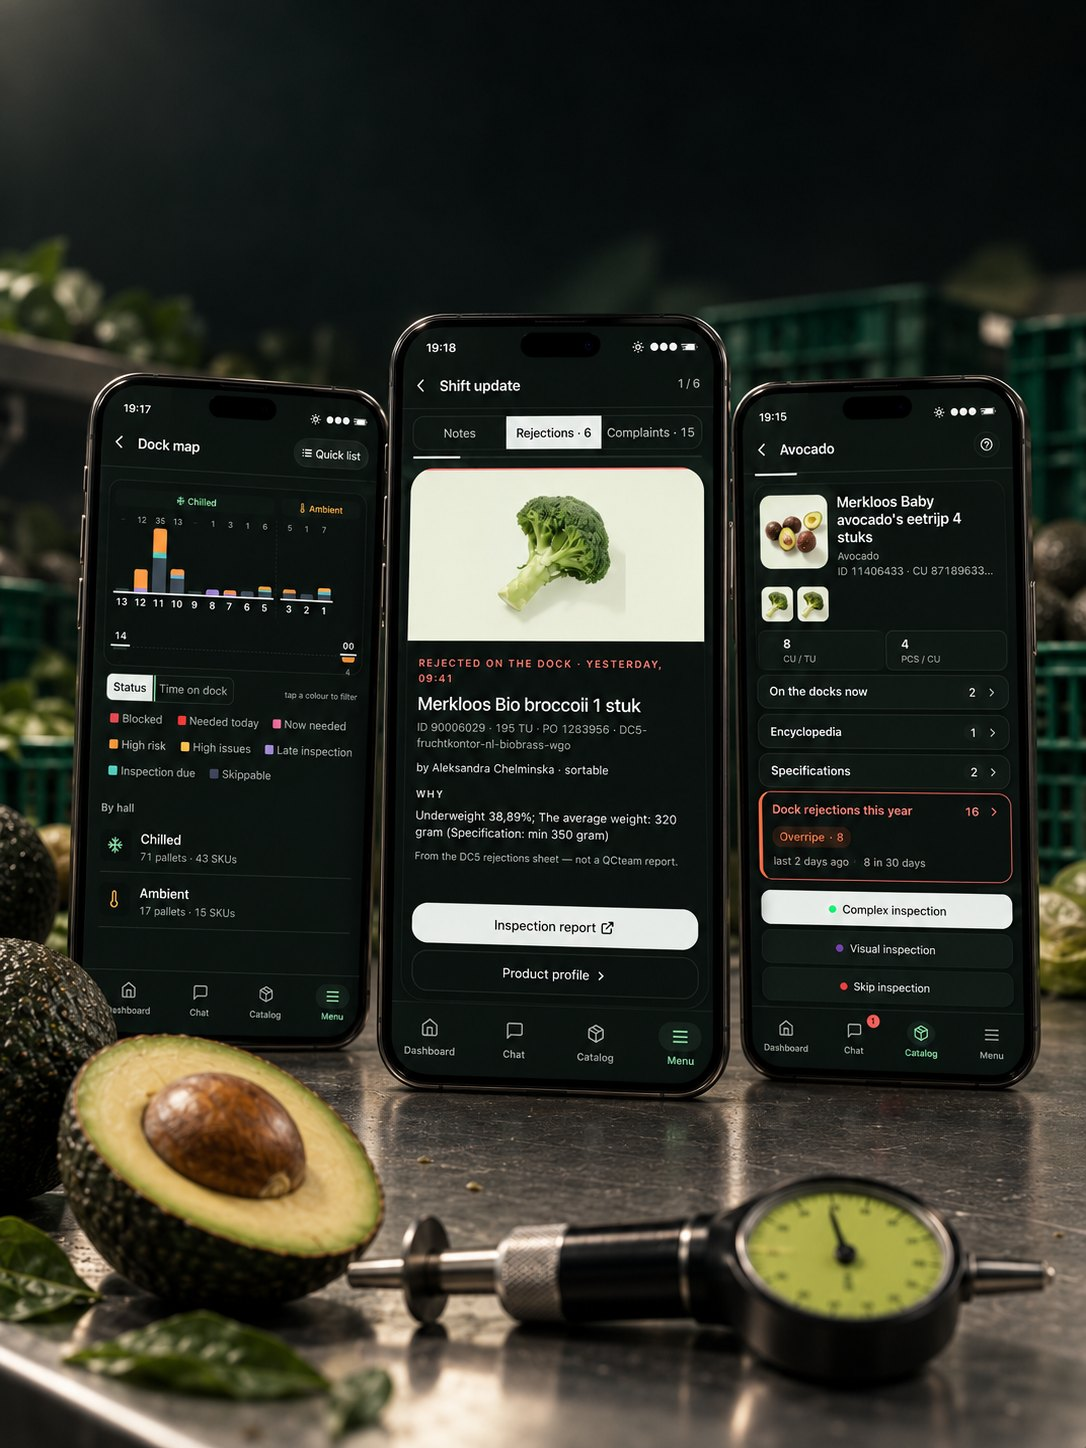
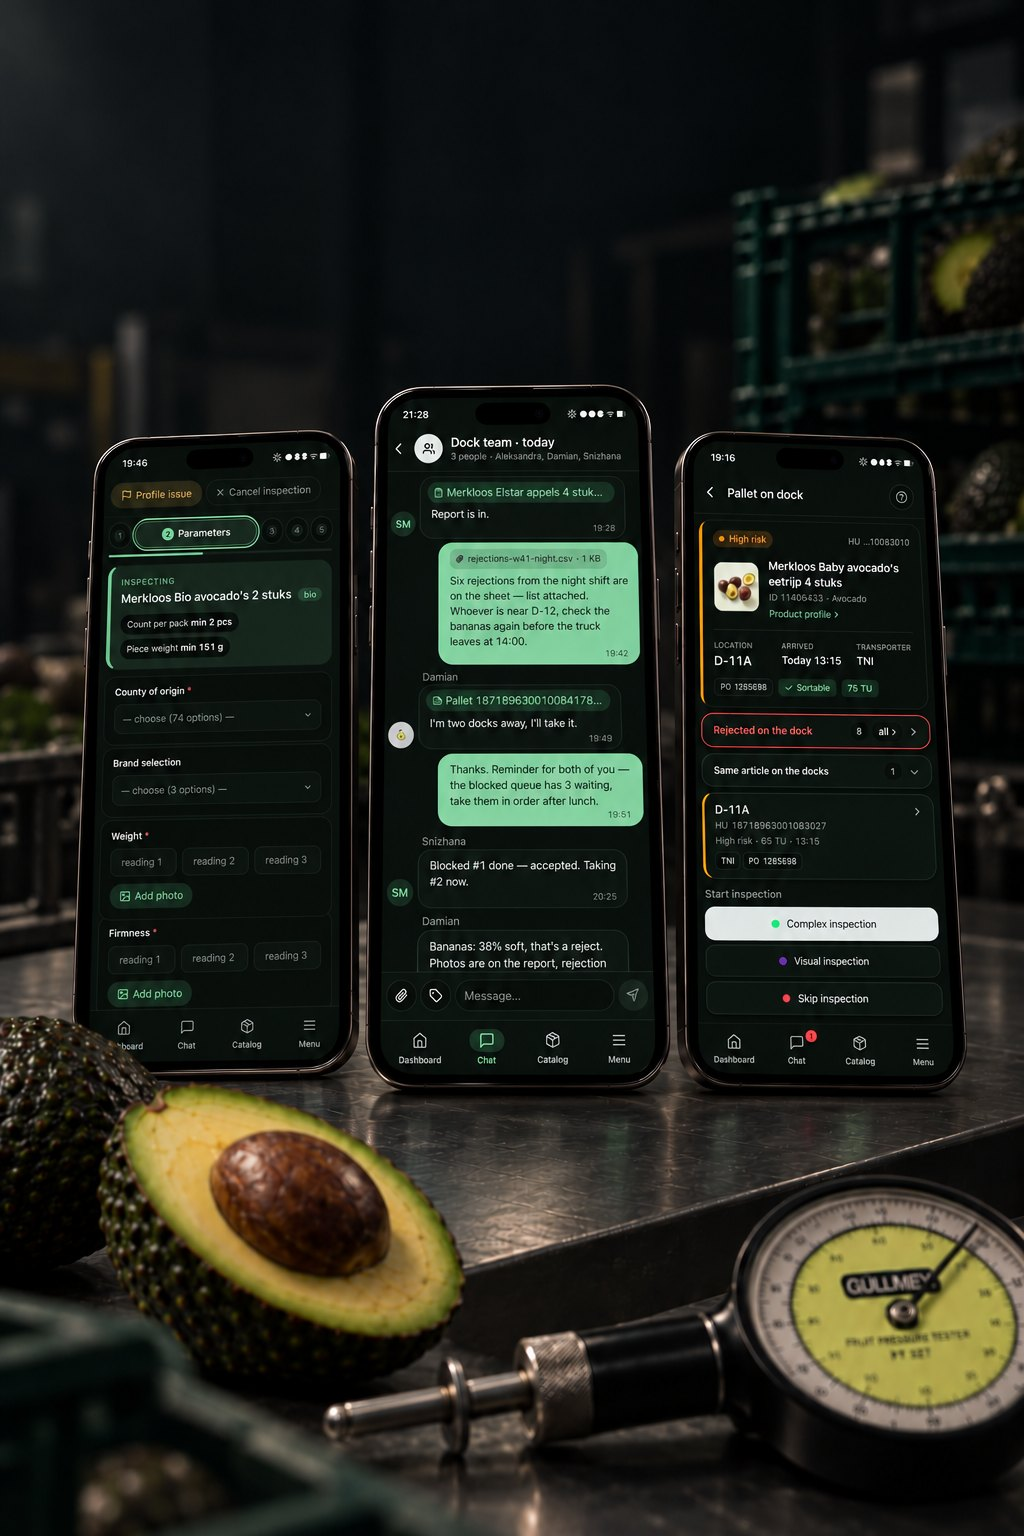
Sign-in carousel: two new app-on-phones slides (inspection · chat · pallet; dock map · shift update · catalog)
Claude-Session: https://claude.ai/code/session_01D8tjnUiivyrGcLWB3k9XYc

diff --git a/src/Portal.jsx b/src/Portal.jsx
@@ -1282,7 +1282,7 @@ const writeSession = id => { try { if (id) localStorage.setItem(SESSION_KEY, id)
 // Any number of devices and people can be signed in at once (portal + phones). Concurrent edits are merged by the
 // shared syncer (src/sync.js): every edit is a function applied on top of the server's latest copy, never a blind overwrite.
 // Bump when public/login-hero.jpg changes: the service worker and the browser cache the old picture under the same URL.
-const LOGIN_HERO_V = "4";
+const LOGIN_HERO_V = "5";
 function LoginScreen({ s, onLogin, allowRoles }) {
   // Always the prototype's dark theme, whatever the app is set to: the sign-in page is the front door, one look.
   const D = DARK;
@@ -1290,7 +1290,7 @@ function LoginScreen({ s, onLogin, allowRoles }) {
   const [email, setEmail] = useState(""); const [pw, setPw] = useState(""); const [pw2, setPw2] = useState(""); const [err, setErr] = useState(""); const [show, setShow] = useState(false);
   const [hero, setHero] = useState(true);   // public/login-hero.jpg — optional photo behind the brand panel; the gradient alone when missing
   // Brand panel carousel: slide 0 is the inspection photo, slide 1 shows the app on phones. Arrows, dots, keys and swipe.
-  const HERO_SLIDES = [{ src: `/login-hero.jpg?v=${LOGIN_HERO_V}`, cls: "" }, { src: `/login-hero-2.jpg?v=${LOGIN_HERO_V}`, cls: "screens" }];
+  const HERO_SLIDES = [{ src: `/login-hero.jpg?v=${LOGIN_HERO_V}`, cls: "" }, { src: `/login-hero-2.jpg?v=${LOGIN_HERO_V}`, cls: "screens" }, { src: `/login-hero-3.jpg?v=${LOGIN_HERO_V}`, cls: "screens" }];
   const [slide, setSlide] = useState(0); const touchX = useRef(null);
   const goSlide = d => setSlide(i => (i + d + HERO_SLIDES.length) % HERO_SLIDES.length);
   useEffect(() => { const k = e => { if (e.target && /input|textarea|select/i.test(e.target.tagName)) return; if (e.key === "ArrowRight") goSlide(1); if (e.key === "ArrowLeft") goSlide(-1); }; window.addEventListener("keydown", k); return () => window.removeEventListener("keydown", k); }, []);
@@ -1332,7 +1332,7 @@ function LoginScreen({ s, onLogin, allowRoles }) {
         .qc-login-brand{position:relative;overflow:hidden;display:flex;flex-direction:column;justify-content:space-between;padding:56px 56px 48px;color:#EEF5F0;background:linear-gradient(160deg,${green2} 0%,${green} 70%)}
         .qc-login-brand .hero{position:absolute;inset:0;width:100%;height:100%;object-fit:cover;object-position:55% 60%;opacity:0;filter:saturate(.85) contrast(1.03);transition:opacity .5s ease}
         .qc-login-brand .hero.on{opacity:.92}
-        .qc-login-brand .hero.screens{object-position:50% 100%;filter:saturate(.95)}
+        .qc-login-brand .hero.screens{object-position:50% 50%;filter:saturate(.95);transform:scale(1.08);transform-origin:50% 60%}
         .qc-login-brand .hero.screens.on{opacity:1}
         .qc-login-brand .tint.screens{background:linear-gradient(180deg,rgba(11,36,24,.75) 0%,rgba(11,36,24,.2) 20%,rgba(11,36,24,.02) 32%,rgba(11,36,24,.02) 78%,rgba(11,36,24,.5) 92%,rgba(11,36,24,.8) 100%)}
         .qc-login-brand .fade{transition:opacity .4s ease}
